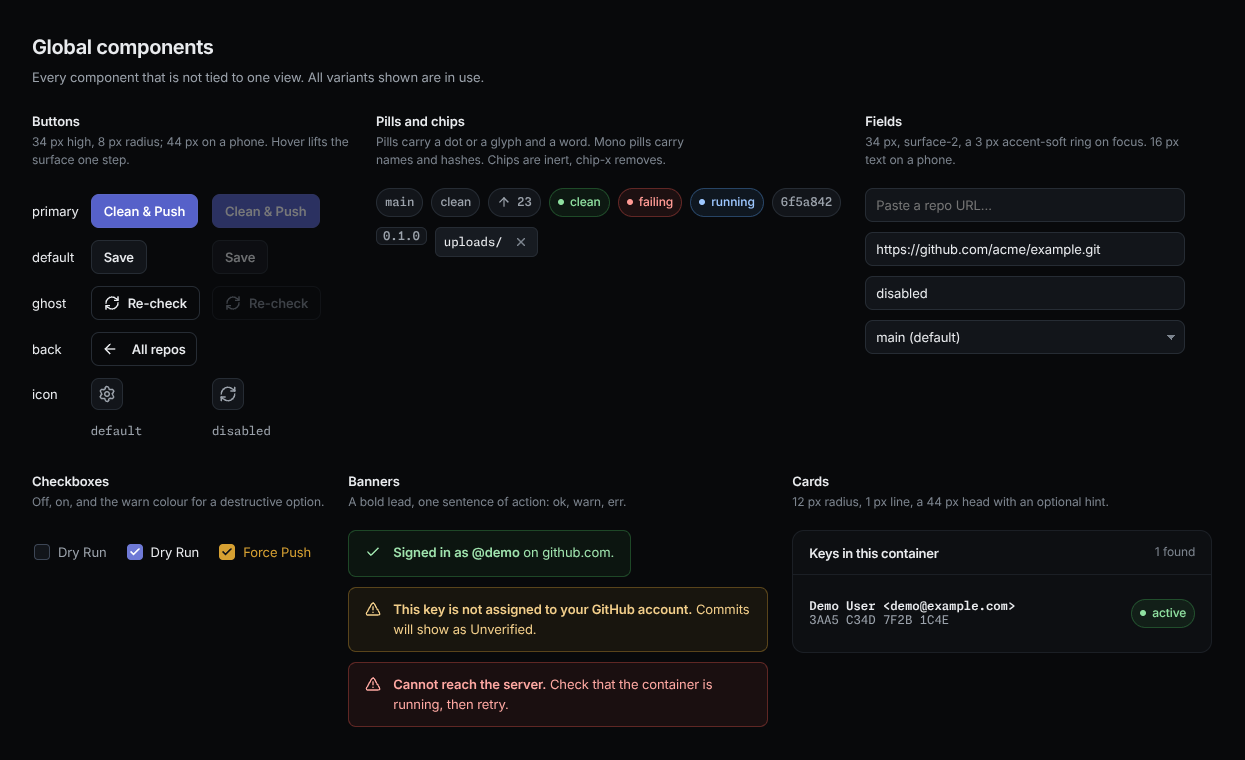
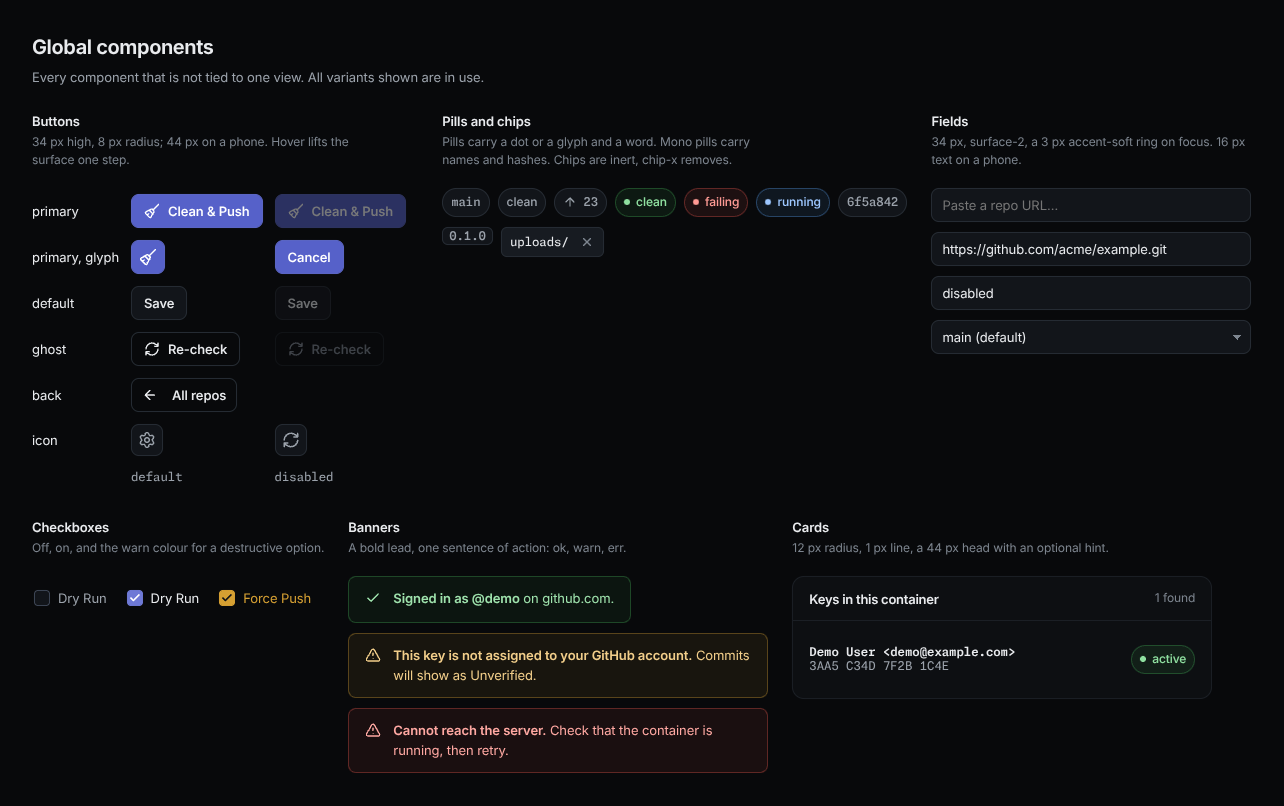
feat(ui): clean buttons carry the broom glyph

diff --git a/ui/static/index.html b/ui/static/index.html
@@ -196,6 +196,9 @@
     transition: background .12s, border-color .12s;
   }
   .btn:hover { background: var(--surface-3); border-color: #313842; }
+  .btn.icon { width: 34px; padding: 0; --ico: var(--ico-l); }
+  .clean .sparkles { opacity: 0; transition: opacity .12s; }
+  .clean:hover .sparkles, .clean:focus-visible .sparkles { opacity: 1; }
   .btn:active { transform: translateY(.5px); }
   .btn:disabled { opacity: .45; cursor: not-allowed; }
   .btn.primary { background: var(--accent-deep); border-color: #5c67c6; color: #fff; }
@@ -313,6 +316,7 @@
   /* pinned to the card bottom, so the buttons line up across a grid row */
   .card-actions { display: flex; gap: 8px; align-items: center; margin-top: auto; }
   .card-actions .btn { height: 30px; font-size: var(--fs-2); padding: 0 12px; }
+  .card-actions .btn.icon { width: 30px; padding: 0; }
 
   .loading-line { margin: 20px 0 0; color: var(--dim); font-size: var(--fs-2); }
   .empty-state {
@@ -767,7 +771,7 @@
           <div class="card-head">
             <h2>Options</h2>
             <div class="grow"></div>
-            <button class="btn primary" id="start" data-state="idle">Clean &amp; Push</button>
+            <button class="btn primary clean" id="start" data-state="idle"><span class="ico-svg" data-icon="broom-sparkles" aria-hidden="true"></span>Clean &amp; Push</button>
           </div>
           <div class="card-body options" id="options">
             <div class="opt row" id="opt-branch">
@@ -815,7 +819,7 @@
       </div>
     </div>
     <div class="tabbar" id="tabbar">
-      <button class="btn primary" id="start-mobile" data-state="idle">Clean &amp; Push</button>
+      <button class="btn primary clean" id="start-mobile" data-state="idle"><span class="ico-svg" data-icon="broom-sparkles" aria-hidden="true"></span>Clean &amp; Push</button>
     </div>
   </div>
 
@@ -895,7 +899,7 @@
     "circle-small": svg('<circle cx="12" cy="12" r="6"/>'),
     user: svg(paths("M19 21v-2a4 4 0 0 0-4-4H9a4 4 0 0 0-4 4v2") + '<circle cx="12" cy="7" r="4"/>'),
     // the app icon; scripts/app_icon.py draws the same paths at every size
-    "broom-sparkles": svg(paths("M11 2v2", "M12 3h-2", "M13.5 10.5 22 2", "M14.734 13.841a2 2 0 00-.314-2.42L12.58 9.58a2 2 0 00-2.421-.314l-7.657 4.461A1 1 0 002.3 15.3l6.403 6.403a1 1 0 001.571-.204z", "M20 15v4", "M22 17h-4", "M4 4v4", "m5 18 2-2", "M6 6H2", "m7.699 10.7 5.602 5.601")),
+    "broom-sparkles": svg(paths("M13.5 10.5 22 2", "M14.734 13.841a2 2 0 00-.314-2.42L12.58 9.58a2 2 0 00-2.421-.314l-7.657 4.461A1 1 0 002.3 15.3l6.403 6.403a1 1 0 001.571-.204z", "m5 18 2-2", "m7.699 10.7 5.602 5.601") + '<g class="sparkles">' + paths("M11 2v2", "M12 3h-2", "M20 15v4", "M22 17h-4", "M4 4v4", "M6 6H2") + "</g>"),
     "loader-circle": svg(paths("M21 12a9 9 0 1 1-6.219-8.56")),
     "git-branch": svg(paths("M15 6a9 9 0 0 0-9 9V3") + '<circle cx="18" cy="6" r="3"/><circle cx="6" cy="18" r="3"/>'),
     "refresh-cw": svg(paths("M3 12a9 9 0 0 1 9-9 9.75 9.75 0 0 1 6.74 2.74L21 8", "M21 3v5h-5", "M21 12a9 9 0 0 1-9 9 9.75 9.75 0 0 1-6.74-2.74L3 16", "M8 16H3v5")),
@@ -1094,7 +1098,7 @@
     }
 
     const actions = el("div", { class: "card-actions" },
-      el("button", { class: "btn primary", onclick: async (e) => { e.stopPropagation(); await oneClick(repo); } }, "Clean & Push"));
+      el("button", { class: "btn primary icon clean", "aria-label": "Clean & Push", title: "Clean & Push", onclick: async (e) => { e.stopPropagation(); await oneClick(repo); } }, icon("broom-sparkles")));
 
     return el("div", { class: "repo-card", onclick: () => openRepo(repo.id) },
       head, meta, arena, actions);
@@ -1669,7 +1673,7 @@
     for (const id of ["start", "start-mobile"]) {
       const btn = $(id);
       btn.dataset.state = mode;
-      btn.textContent = running ? "Cancel" : "Clean & Push";
+      btn.replaceChildren(...(running ? ["Cancel"] : [icon("broom-sparkles"), "Clean & Push"]));
       btn.classList.toggle("primary", !running);
       btn.disabled = mode === "starting";
       if (running) btn.title = "Stops this run";

diff --git a/tests/test_ui.py b/tests/test_ui.py
@@ -718,9 +718,15 @@ def test_the_brand_mark_and_the_app_icon_share_one_glyph(ui: UI) -> None:
   page = ui.text("/")
   assert 'class="brand" href="#/"' in page
   assert '<span class="ico-svg" data-icon="broom-sparkles" aria-hidden="true">' in page
-  entry = re.search(r'"broom-sparkles": svg\(paths\((.*?)\)\),', page)
+  entry = re.search(
+    r'"broom-sparkles": svg\(paths\((.*?)\) \+ \'<g class="sparkles">\' \+ paths\((.*?)\)'
+    r' \+ "</g>"\),',
+    page,
+  )
   assert entry
-  assert tuple(json.loads(f"[{entry.group(1)}]")) == app_icon.GLYPH
+  assert tuple(json.loads(f"[{entry.group(1)}]")) == app_icon.BROOM
+  assert tuple(json.loads(f"[{entry.group(2)}]")) == app_icon.SPARKLES
+  assert app_icon.GLYPH == app_icon.BROOM + app_icon.SPARKLES
 
 
 def test_pwa_assets(ui: UI) -> None:
@@ -1032,6 +1038,28 @@ def test_every_icon_name_on_the_page_is_vendored() -> None:
     if button_id in GLYPH_ONLY:
       assert f'aria-label="{GLYPH_ONLY[button_id]}"' in match.group(0)
       assert re.sub(r"<[^>]+>", "", match.group(1)) == ""
+
+
+CLEAN_GLYPH = (
+  '<span class="ico-svg" data-icon="broom-sparkles" aria-hidden="true"></span>'
+)
+
+
+def test_every_clean_button_carries_the_broom_glyph() -> None:
+  page = PAGE.read_text(encoding="utf-8")
+  for button_id in ("start", "start-mobile"):
+    match = re.search(
+      rf'<button class="btn primary clean" id="{button_id}"[^>]*>(.*?)</button>', page
+    )
+    assert match is not None, button_id
+    assert match.group(1) == CLEAN_GLYPH + "Clean &amp; Push", button_id
+  card = 'class: "btn primary icon clean", "aria-label": "Clean & Push", title: "Clean & Push"'
+  assert card in page
+  assert 'running ? ["Cancel"] : [icon("broom-sparkles"), "Clean & Push"]' in page
+  assert ".clean .sparkles { opacity: 0;" in page
+  assert (
+    ".clean:hover .sparkles, .clean:focus-visible .sparkles { opacity: 1; }" in page
+  )
 
 
 WEIGHTS = {400, 520, 560, 600, 620, 640}

diff --git a/tests/e2e/test_icons.py b/tests/e2e/test_icons.py
@@ -20,6 +20,8 @@ GLYPHS = {
   ".commit .avatar.none .ico-svg": INLINE,
 }
 BOX = "e => e.getBoundingClientRect().width"
+OPACITY = "e => Number(getComputedStyle(e).opacity)"
+CARD_CLEAN = ".repo-card .btn.icon.clean"
 
 
 def glyph_widths(walker: Walker) -> dict[str, float]:
@@ -37,3 +39,22 @@ def test_desktop_glyphs_sit_on_the_size_tokens(desktop: Walker) -> None:
 
 def test_phone_glyphs_keep_the_desktop_sizes(phone: Walker) -> None:
   assert glyph_widths(phone) == GLYPHS
+
+
+def test_clean_buttons_carry_the_broom_and_sparkle_on_hover(desktop: Walker) -> None:
+  desktop.goto(1200)
+  page = desktop.page
+  assert page.eval_on_selector(f"{CARD_CLEAN} .ico-svg", BOX) == ICON_BUTTON
+  idle = page.eval_on_selector(f"{CARD_CLEAN} .sparkles", OPACITY)
+  page.hover(CARD_CLEAN)
+  page.wait_for_function(
+    f"() => getComputedStyle(document.querySelector('{CARD_CLEAN} .sparkles')).opacity === '1'"
+  )
+  assert idle == 0
+  assert (
+    page.eval_on_selector(CARD_CLEAN, "e => e.getAttribute('aria-label')")
+    == "Clean & Push"
+  )
+  desktop.click(".repo-card:has-text('shop-web')", 800)
+  assert page.eval_on_selector("#start .ico-svg", BOX) == BUTTON
+  assert page.eval_on_selector("#start .sparkles", OPACITY) == 0

diff --git a/scripts/app_icon.py b/scripts/app_icon.py
@@ -27,23 +27,19 @@ ROOT = Path(__file__).resolve().parent.parent
 OUT = ROOT / "ui" / "static" / "icons"
 ACCENT = "#6e79d6"
 BACKGROUND = "#0d0f12"
-# Lucide 1.61.0 broom-sparkles, ISC licence in ui/static/LICENSE-lucide.txt.
-# The page draws the same paths in its top bar mark.
-GLYPH = (
-  "M11 2v2",
-  "M12 3h-2",
+# Lucide 1.61.0 broom-sparkles, ISC licence in ui/static/LICENSE-lucide.txt. The page
+# draws the same paths in its brand mark, and the clean buttons show the sparkles on hover.
+BROOM = (
   "M13.5 10.5 22 2",
   (
     "M14.734 13.841a2 2 0 00-.314-2.42L12.58 9.58a2 2 0 00-2.421-.314l-7.657 4.461"
     "A1 1 0 002.3 15.3l6.403 6.403a1 1 0 001.571-.204z"
   ),
-  "M20 15v4",
-  "M22 17h-4",
-  "M4 4v4",
   "m5 18 2-2",
-  "M6 6H2",
   "m7.699 10.7 5.602 5.601",
 )
+SPARKLES = ("M11 2v2", "M12 3h-2", "M20 15v4", "M22 17h-4", "M4 4v4", "M6 6H2")
+GLYPH = BROOM + SPARKLES
 GRID = 24  # the Lucide drawing grid
 # name -> (pixel size, padding as a share of the side, background)
 PICTURES = {

diff --git a/scripts/design_boards.py b/scripts/design_boards.py
@@ -507,8 +507,10 @@ def states_board(_: dict[str, bytes]) -> str:
 def components_board(_: dict[str, bytes]) -> str:
   buttons = (
     '<table class="sheet">'
-    '<tr><td>primary</td><td><button class="btn primary">Clean &amp; Push</button></td>'
-    '<td><button class="btn primary" disabled>Clean &amp; Push</button></td></tr>'
+    f'<tr><td>primary</td><td><button class="btn primary clean">{icon("broom-sparkles")}Clean &amp; Push</button></td>'
+    f'<td><button class="btn primary clean" disabled>{icon("broom-sparkles")}Clean &amp; Push</button></td></tr>'
+    '<tr><td>primary, glyph</td><td><button class="btn primary icon clean" aria-label="Clean &amp; Push">'
+    f'{icon("broom-sparkles")}</button></td><td><button class="btn primary">Cancel</button></td></tr>'
     '<tr><td>default</td><td><button class="btn">Save</button></td>'
     '<td><button class="btn" disabled>Save</button></td></tr>'
     f'<tr><td>ghost</td><td><button class="btn ghost">{icon("refresh-cw")}Re-check</button></td>'

diff --git a/docs/design.md b/docs/design.md
@@ -55,6 +55,7 @@ The one design record for the arena-cleanup web app. The sections follow the nem
 - Navigation and file glyphs in use: arrow-left, settings, arrow-up, arrow-down, chevron-right, folder, folder-tree, file, and plus.
 - State and action glyphs in use: check, x, triangle-alert, minus, circle-small, loader-circle, git-branch, refresh-cw, copy, user, and broom-sparkles.
 - Buttons with a glyph: Reload is `refresh-cw` alone, named `Reload commits` in `aria-label` and `title`. Copy log is `copy` alone, named `Copy log` the same way. Re-check and Retry lead with `refresh-cw`, Copy public key with `copy`, and Browse with `folder-tree`. Every other button keeps its word alone.
+- Clean buttons: every `Clean & Push` button carries `broom-sparkles`, the broom alone when idle, and the sparkles appear on hover and focus. The dashboard card button is the glyph alone at `--ico-l`, named `Clean & Push` in `aria-label` and `title`. The repo view button leads with the glyph at `--ico-m` before its words, and the `Cancel` state is the word alone.
 - Static slots carry `data-icon="<name>"`, and the boot fills them. The brand mark is `broom-sparkles` in the accent, the same glyph as the app icon.
 - App icon: `scripts/app_icon.py` draws `ui/static/icons/*.png` from the `broom-sparkles` paths. The favicon and the regular PWA pictures carry the accent glyph alone on a transparent ground. The maskable picture and the Apple touch icon add the `--surface` background, full bleed, with the glyph inside the safe zone.
 - No text glyphs stand in for icons. The licence sits beside the page in `ui/static/LICENSE-lucide.txt`.

diff --git a/CHANGELOG.md b/CHANGELOG.md
@@ -7,6 +7,12 @@ and the project uses [Semantic Versioning](https://semver.org/spec/v2.0.0.html).
 
 ## [0.3.0] - 2026-10-23
 
+### Changed
+
+- Every Clean & Push button carries the broom glyph, and its sparkles appear on
+  hover and focus. The dashboard card button is the glyph alone, named in
+  `aria-label` and `title`. The repo view button leads with the glyph.
+
 ### Removed
 
 - The Keep Empty Commits option, its `keep_empty` run field, and the CLI flag
